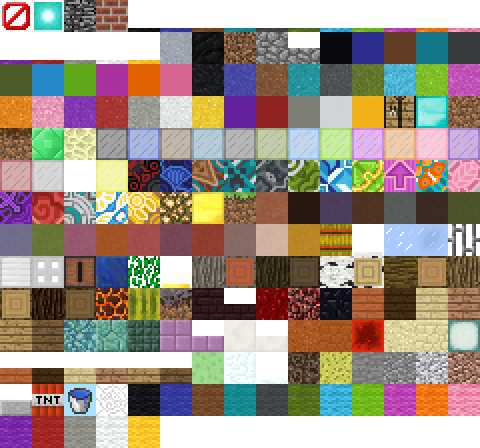
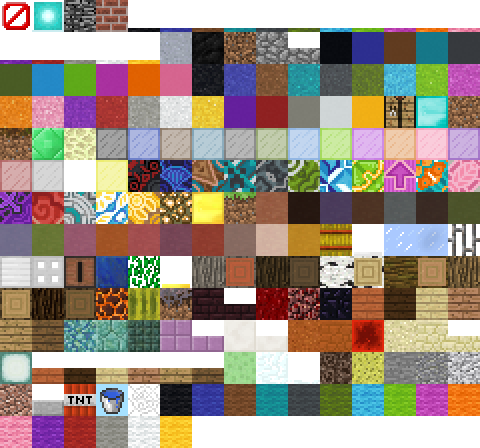
Updated images

Changed region(s): [[0.0, 0.6875, 1.0, 1.0]]

diff --git a/css/spritesheet.css b/css/spritesheet.css
@@ -16,9 +16,9 @@
 .block-iron_block,
 .block-log_oak_top,
 .block-planks_oak,
-.block-slabs_acacia,
-.block-stone_slab,
-.block-wool_colored_purple{
+.block-sea_lantern,
+.block-stone_granite,
+.block-wool_colored_pink{
 	background-position-x: -000%
 }
 
@@ -33,9 +33,9 @@
 .block-iron_trapdoor,
 .block-log_spruce,
 .block-planks_spruce,
-.block-slabs_big_oak,
-.block-tnt_side,
-.block-wool_colored_red{
+.block-slabs_acacia,
+.block-stone_slab,
+.block-wool_colored_purple{
 	background-position-x: -100%
 }
 
@@ -50,9 +50,9 @@
 .block-jukebox_top,
 .block-log_spruce_top,
 .block-prismarine,
-.block-slabs_birch,
-.block-water_bucket,
-.block-wool_colored_silver{
+.block-slabs_big_oak,
+.block-tnt_side,
+.block-wool_colored_red{
 	background-position-x: -200%
 }
 
@@ -67,9 +67,9 @@
 .block-lapis_block,
 .block-magma,
 .block-prismarine_bricks,
-.block-slabs_jungle,
-.block-web,
-.block-wool_colored_white{
+.block-slabs_birch,
+.block-water_bucket,
+.block-wool_colored_silver{
 	background-position-x: -300%
 }
 
@@ -84,9 +84,9 @@
 .block-leaves,
 .block-melon_side,
 .block-prismarine_dark,
-.block-slabs_oak,
-.block-wool_colored_black,
-.block-wool_colored_yellow{
+.block-slabs_jungle,
+.block-web,
+.block-wool_colored_white{
 	background-position-x: -400%
 }
 
@@ -101,8 +101,9 @@
 .block-light_weighted_pressure_plate,
 .block-mycelium_side,
 .block-purpur_block,
-.block-slabs_spruce,
-.block-wool_colored_blue{
+.block-slabs_oak,
+.block-wool_colored_black,
+.block-wool_colored_yellow{
 	background-position-x: -500%
 }
 
@@ -117,8 +118,8 @@
 .block-log_acacia,
 .block-nether_brick,
 .block-purpur_slab,
-.block-slime,
-.block-wool_colored_brown{
+.block-slabs_spruce,
+.block-wool_colored_blue{
 	background-position-x: -600%
 }
 
@@ -133,8 +134,8 @@
 .block-log_acacia_top,
 .block-nether_brick_slab,
 .block-quartz_block_side,
-.block-snow,
-.block-wool_colored_cyan{
+.block-slime,
+.block-wool_colored_brown{
 	background-position-x: -700%
 }
 
@@ -149,8 +150,8 @@
 .block-log_big_oak,
 .block-nether_wart_block,
 .block-quartz_slab,
-.block-snow_layer,
-.block-wool_colored_gray{
+.block-snow,
+.block-wool_colored_cyan{
 	background-position-x: -800%
 }
 
@@ -165,8 +166,8 @@
 .block-log_big_oak_top,
 .block-netherrack,
 .block-red_sand,
-.block-soul_sand,
-.block-wool_colored_green{
+.block-snow_layer,
+.block-wool_colored_gray{
 	background-position-x: -900%
 }
 
@@ -181,8 +182,8 @@
 .block-log_birch,
 .block-obsidian,
 .block-red_sandstone_normal,
-.block-sponge,
-.block-wool_colored_light_blue{
+.block-soul_sand,
+.block-wool_colored_green{
 	background-position-x: -1000%
 }
 
@@ -197,8 +198,8 @@
 .block-log_birch_top,
 .block-planks_acacia,
 .block-redstone_block,
-.block-stone,
-.block-wool_colored_lime{
+.block-sponge,
+.block-wool_colored_light_blue{
 	background-position-x: -1100%
 }
 
@@ -213,8 +214,8 @@
 .block-log_jungle,
 .block-planks_big_oak,
 .block-sand,
-.block-stone_andesite,
-.block-wool_colored_magenta{
+.block-stone,
+.block-wool_colored_lime{
 	background-position-x: -1200%
 }
 
@@ -229,8 +230,8 @@
 .block-log_jungle_top,
 .block-planks_birch,
 .block-sandstone_normal,
-.block-stone_diorite,
-.block-wool_colored_orange{
+.block-stone_andesite,
+.block-wool_colored_magenta{
 	background-position-x: -1300%
 }
 
@@ -244,9 +245,9 @@
 .block-iron_bars,
 .block-log_oak,
 .block-planks_jungle,
-.block-sea_lantern,
-.block-stone_granite,
-.block-wool_colored_pink{
+.block-sandstone_slab,
+.block-stone_diorite,
+.block-wool_colored_orange{
 	background-position-x: -1400%
 }
 
@@ -444,10 +445,11 @@
 .block-redstone_block,
 .block-sand,
 .block-sandstone_normal,
-.block-sea_lantern{
+.block-sandstone_slab{
 	background-position-y: -1000%
 }
 
+.block-sea_lantern,
 .block-slabs_acacia,
 .block-slabs_big_oak,
 .block-slabs_birch,
@@ -461,11 +463,11 @@
 .block-sponge,
 .block-stone,
 .block-stone_andesite,
-.block-stone_diorite,
-.block-stone_granite{
+.block-stone_diorite{
 	background-position-y: -1100%
 }
 
+.block-stone_granite,
 .block-stone_slab,
 .block-tnt_side,
 .block-water_bucket,
@@ -479,11 +481,11 @@
 .block-wool_colored_light_blue,
 .block-wool_colored_lime,
 .block-wool_colored_magenta,
-.block-wool_colored_orange,
-.block-wool_colored_pink{
+.block-wool_colored_orange{
 	background-position-y: -1200%
 }
 
+.block-wool_colored_pink,
 .block-wool_colored_purple,
 .block-wool_colored_red,
 .block-wool_colored_silver,
